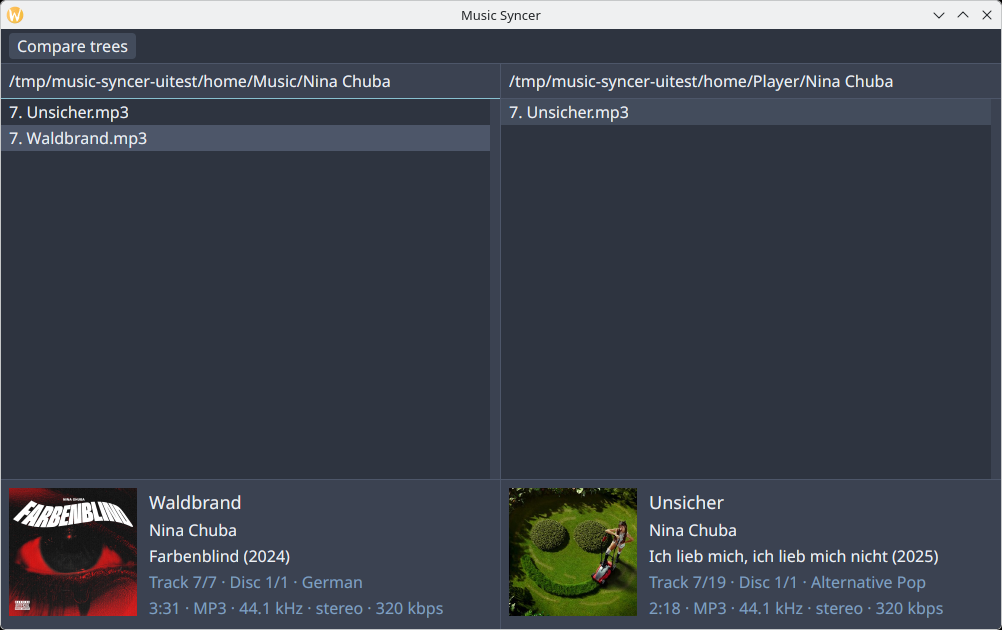
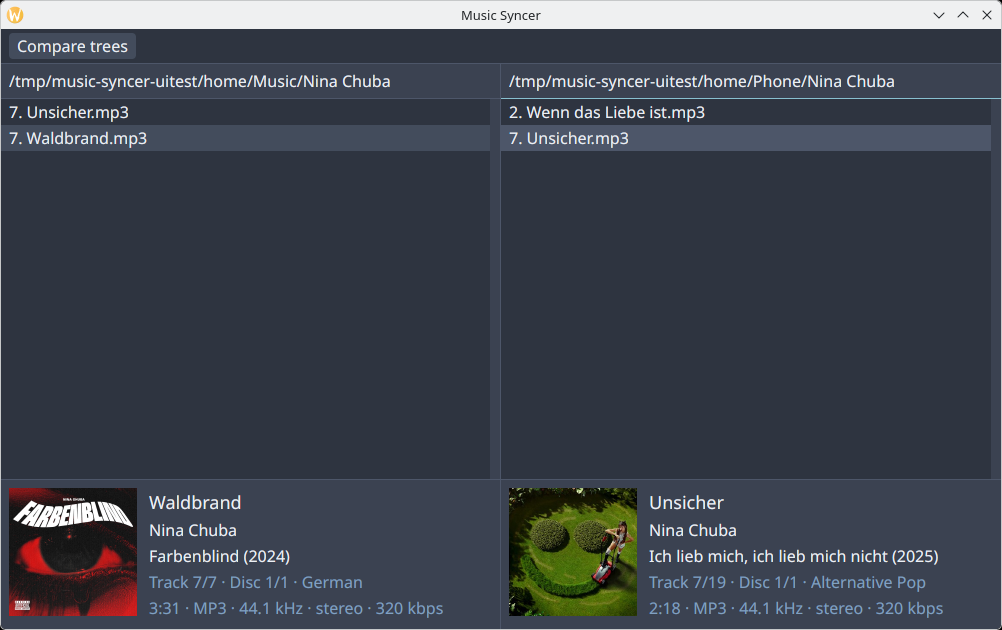
Update README and screenshots for recent changes

Changed region(s): [[0.495, 0.1206, 0.99, 0.2413]]

diff --git a/README.md b/README.md
@@ -1,6 +1,6 @@
 # Music Syncer
 
-Music Syncer is a Linux app for comparing music folders and copying what’s missing from one to the other. Use it with two local folders or with a phone connected over MTP in KDE Plasma.
+Music Syncer is a Linux app for comparing two music folders. It copies missing tracks in either direction and can overwrite changed files. You can use it with two local folders or with a phone connected over MTP in KDE Plasma.
 
 I started this project because I wanted to play around with [GPUI](https://www.gpui.rs/).
 
@@ -24,19 +24,31 @@ You can also click the path at the top of either panel to choose a folder. To br
 
 ## Compare folders
 
-Open the two folders you want to compare and click `Compare trees`. A green row shows an entry that exists on that side only; the red cell opposite it marks where it’s missing. Use `Only differences` to hide matching entries.
+Open the two folders you want to compare and click `Compare trees`. Rows appear as Music Syncer reads both trees. If reading takes a while, a progress toast shows up in the corner without blocking the list, so you can start browsing before it finishes.
 
-![The comparison aligns matching tracks and marks files and folders that exist on only one side](docs/screenshots/comparison.png)
+A green row means an entry exists on that side only, with a red cell opposite it where it’s missing. A yellow row means a file exists on both sides with different contents. Click `Only differences` to hide matching entries.
 
-The comparison walks subfolders and matches entries by name and type. If a file has the same relative path on both sides, Music Syncer treats it as present on both without checking its contents or tags.
+![The comparison aligns matching tracks and marks missing and changed entries](docs/screenshots/comparison.png)
+
+Music Syncer walks subfolders and compares entries by name, type, and size. Files whose sizes differ turn yellow right away, while same-size files stay unchecked until you ask to compare their bytes. The status bar shows how many entries are missing, changed, or unchecked, and only reports that both sides match once the walk finishes with no unreadable folders.
 
 ## Copy missing files
 
-Use `Copy →` or `← Copy` to copy the selected file or the missing items under the selected folder. Use `Copy all missing →` or `← Copy all missing` to fill in the whole tree in that direction. The confirmation shows how many files and folders will be copied, their total size, and the target’s free space when available.
+Use `Copy →` or `← Copy` to copy the selected file or the missing items under the selected folder. `Copy all missing →` and `← Copy all missing` fill in the whole tree in that direction. Before copying, a dialog shows how many files and folders will be copied, their total size, and the target’s free space when available.
 
 ![Confirmation dialog showing the source, destination, and size of a planned copy](docs/screenshots/copy-confirmation.png)
 
-Copying adds missing entries. It leaves files that the comparison found on both sides alone and does not delete anything from either library.
+Music Syncer syncs local copies to disk before reporting them done. Copying only adds missing entries. It leaves existing files alone and never deletes anything from either library.
+
+## Check contents and overwrite changed files
+
+To check same-size files that exist on both sides, click `Check contents` for the selected file or folder, or `Check all contents` for the whole tree. Music Syncer compares them byte by byte in the background, updates each row as it finishes, and shows a progress toast with a `Stop` button.
+
+To replace changed files on the right with the version from the left, click `Overwrite →` for the selected entry or folder, or `Overwrite all changed →` for the whole tree. The confirmation dialog checks free space against the peak growth of the target as files are replaced one by one.
+
+![Confirmation dialog for overwriting changed files on the right after checking contents](docs/screenshots/overwrite-confirmation.png)
+
+Local overwrites write to a temporary file, sync it to disk, and rename it into place. Over MTP, Music Syncer deletes the old file before uploading the replacement. If an upload fails, it removes the incomplete file and marks the entry as missing on the right so you can copy it again.
 
 ## Development
 
@@ -45,4 +57,8 @@ nix develop
 just run
 ```
 
-Use `just test` to run the tests or `just check` to run the flake checks.
+Use `just test` to run the tests or `just check` to run the flake checks. To run the opt-in MTP round-trip test against a connected phone, pass a folder on the phone (the test creates a temporary subfolder and removes it afterward):
+
+```sh
+just test-mtp mtp:/DEVICE/STORAGE/DIR
+```
